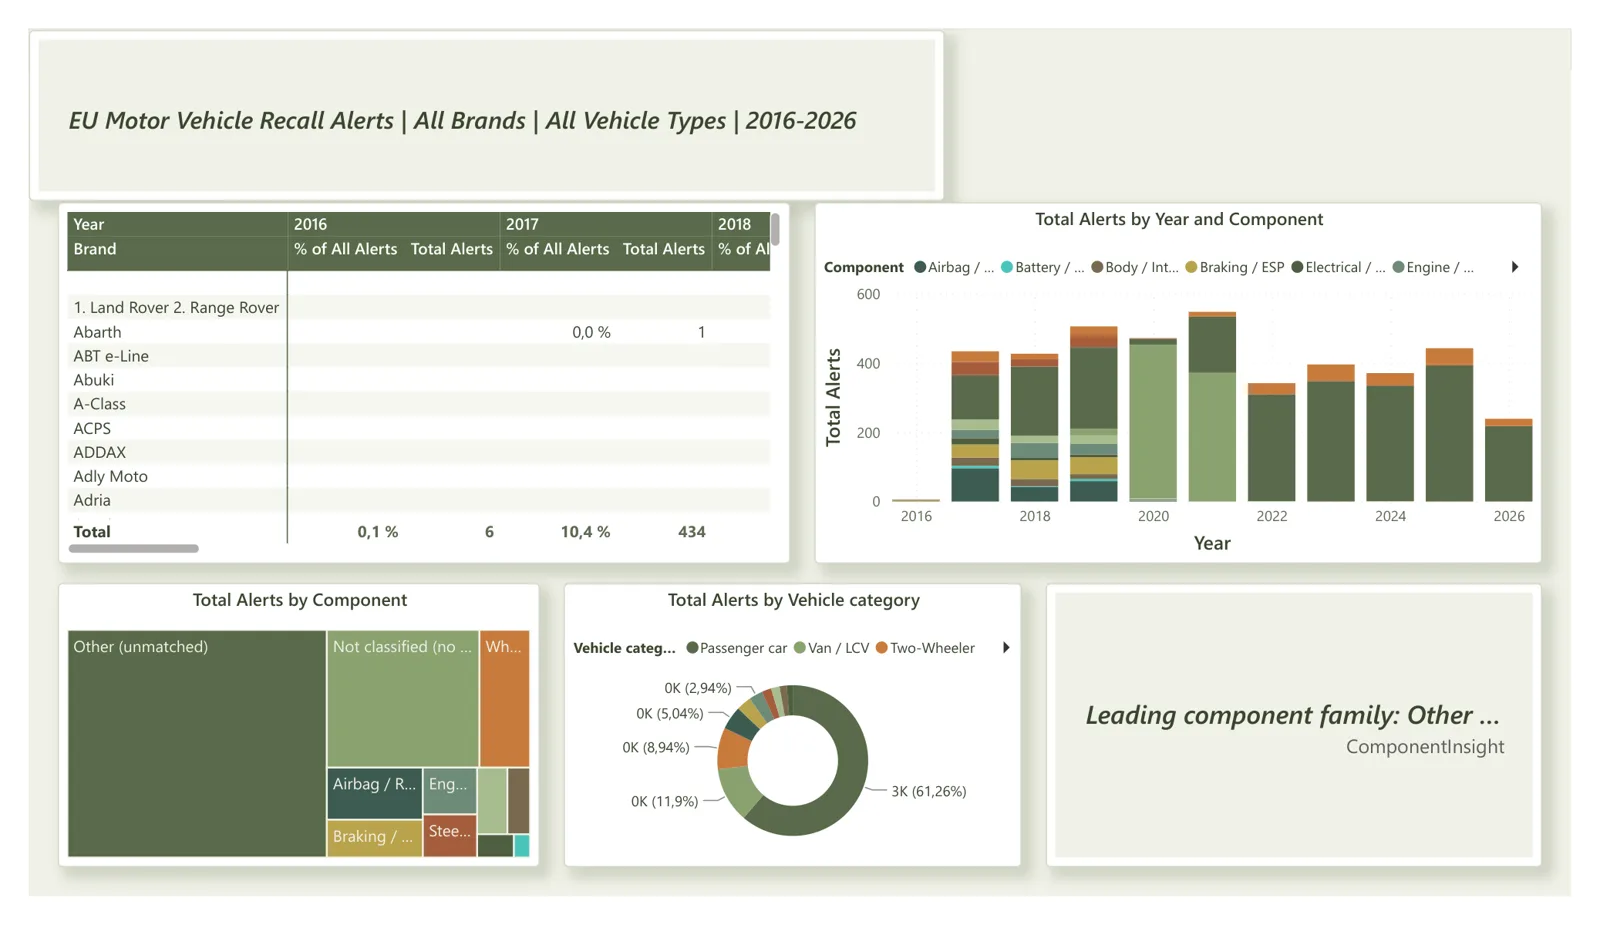
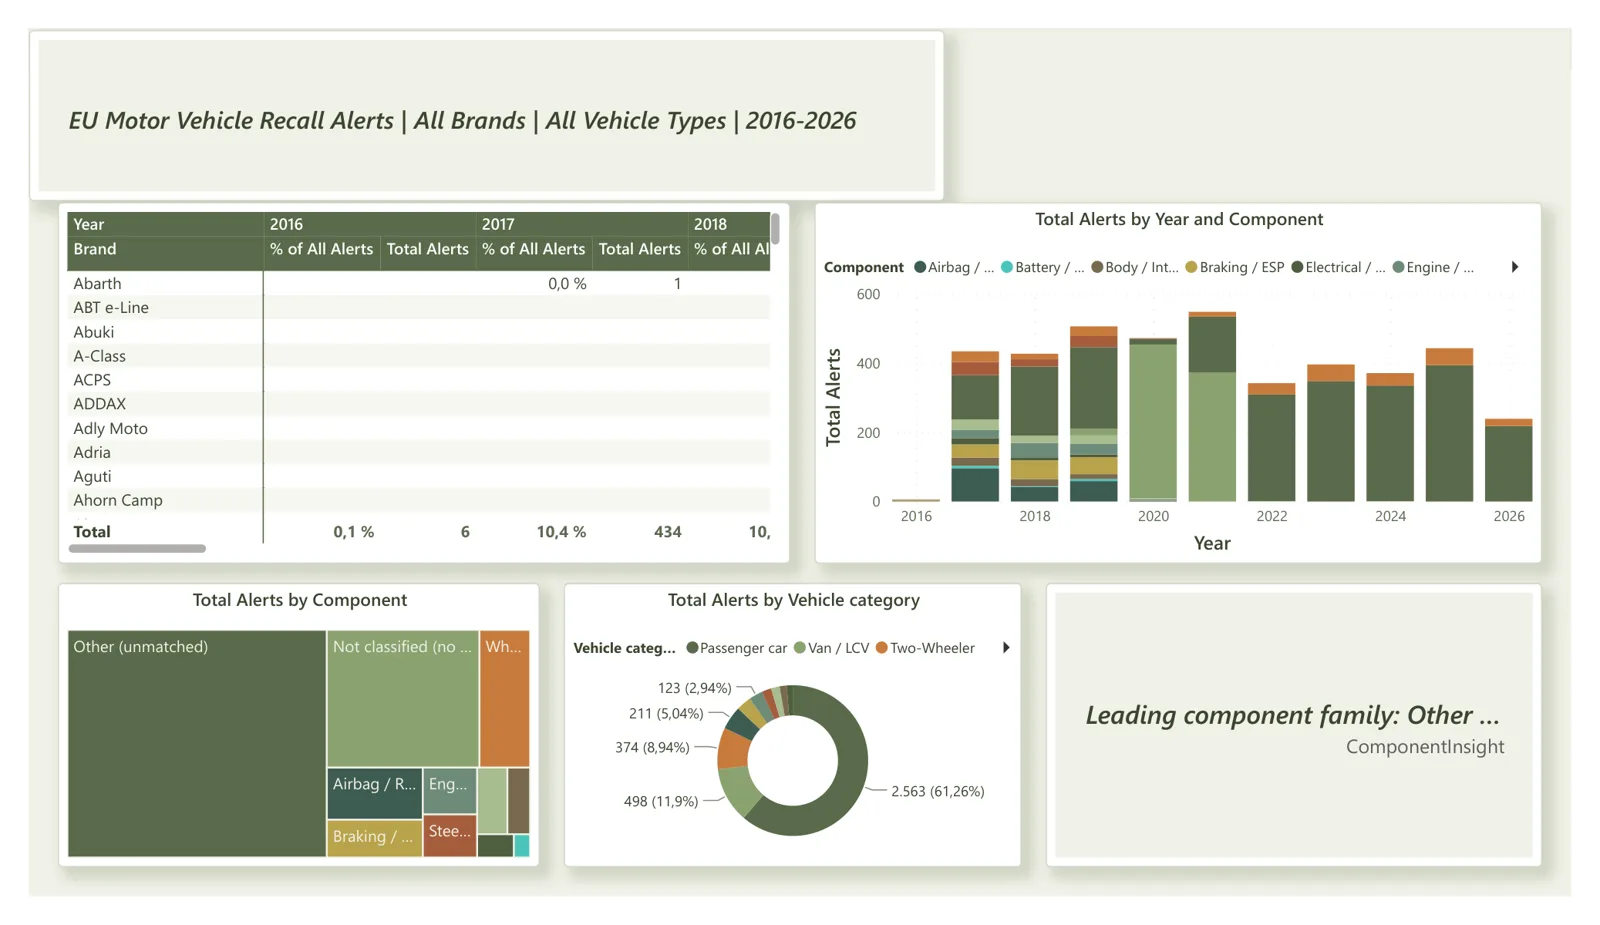
Update EU Safety Gate screenshots and brand count

diff --git a/src/content/projects/eu-safety-gate-vehicle-recalls-dashboard.md b/src/content/projects/eu-safety-gate-vehicle-recalls-dashboard.md
@@ -7,7 +7,7 @@ tags: [bi, dashboard, automotive, data-quality]
 stack: [Power BI, Power Query (M), DAX, Python, pandas]
 github: https://github.com/Chandana18G/eu-safety-gate-recalls-dashboard
 image: /images/projects/eu-safety-gate-vehicle-recalls-dashboard/overview.webp
-imageAlt: "Overview page of the Power BI dashboard: KPI cards for 444 brands, 199 airbag alerts, 19.9% fire alerts and 97.9% serious risk, a column chart of alerts per year from 2016 to 2026, and a treemap of alerts by defective component."
+imageAlt: "Overview page of the Power BI dashboard: KPI cards for 4,184 alerts, 443 brands, 199 airbag alerts, 19.9% fire alerts and 97.9% serious risk, a column chart of alerts per year from 2016 to 2026, a donut of alerts by vehicle category, and a treemap of alerts by defective component."
 highlights: ["4,184 alerts, 2016–2026", "Cards match Python recount", "9 data issues found and fixed"]
 featured: true
 ---
@@ -46,7 +46,7 @@ the year comes from the alert number (`A12/0028/17` → 2017).
 | Busiest year | **2021**, 548 alerts (+16.1% on 2020) |
 | Rated "Serious risk" | **97.9%** of alerts |
 | Fire as a hazard | **19.9%** of alerts |
-| Brands | **444**; Mercedes-Benz has the most alerts (477) |
+| Brands | **443**; Mercedes-Benz has the most alerts (477) |
 | Notifying country | Germany raises **2,504** of 4,184 alerts (59.8%) |
 | Spread | each alert lists **6.27** other affected countries on average |
 | Airbag / restraint alerts | **199** |
